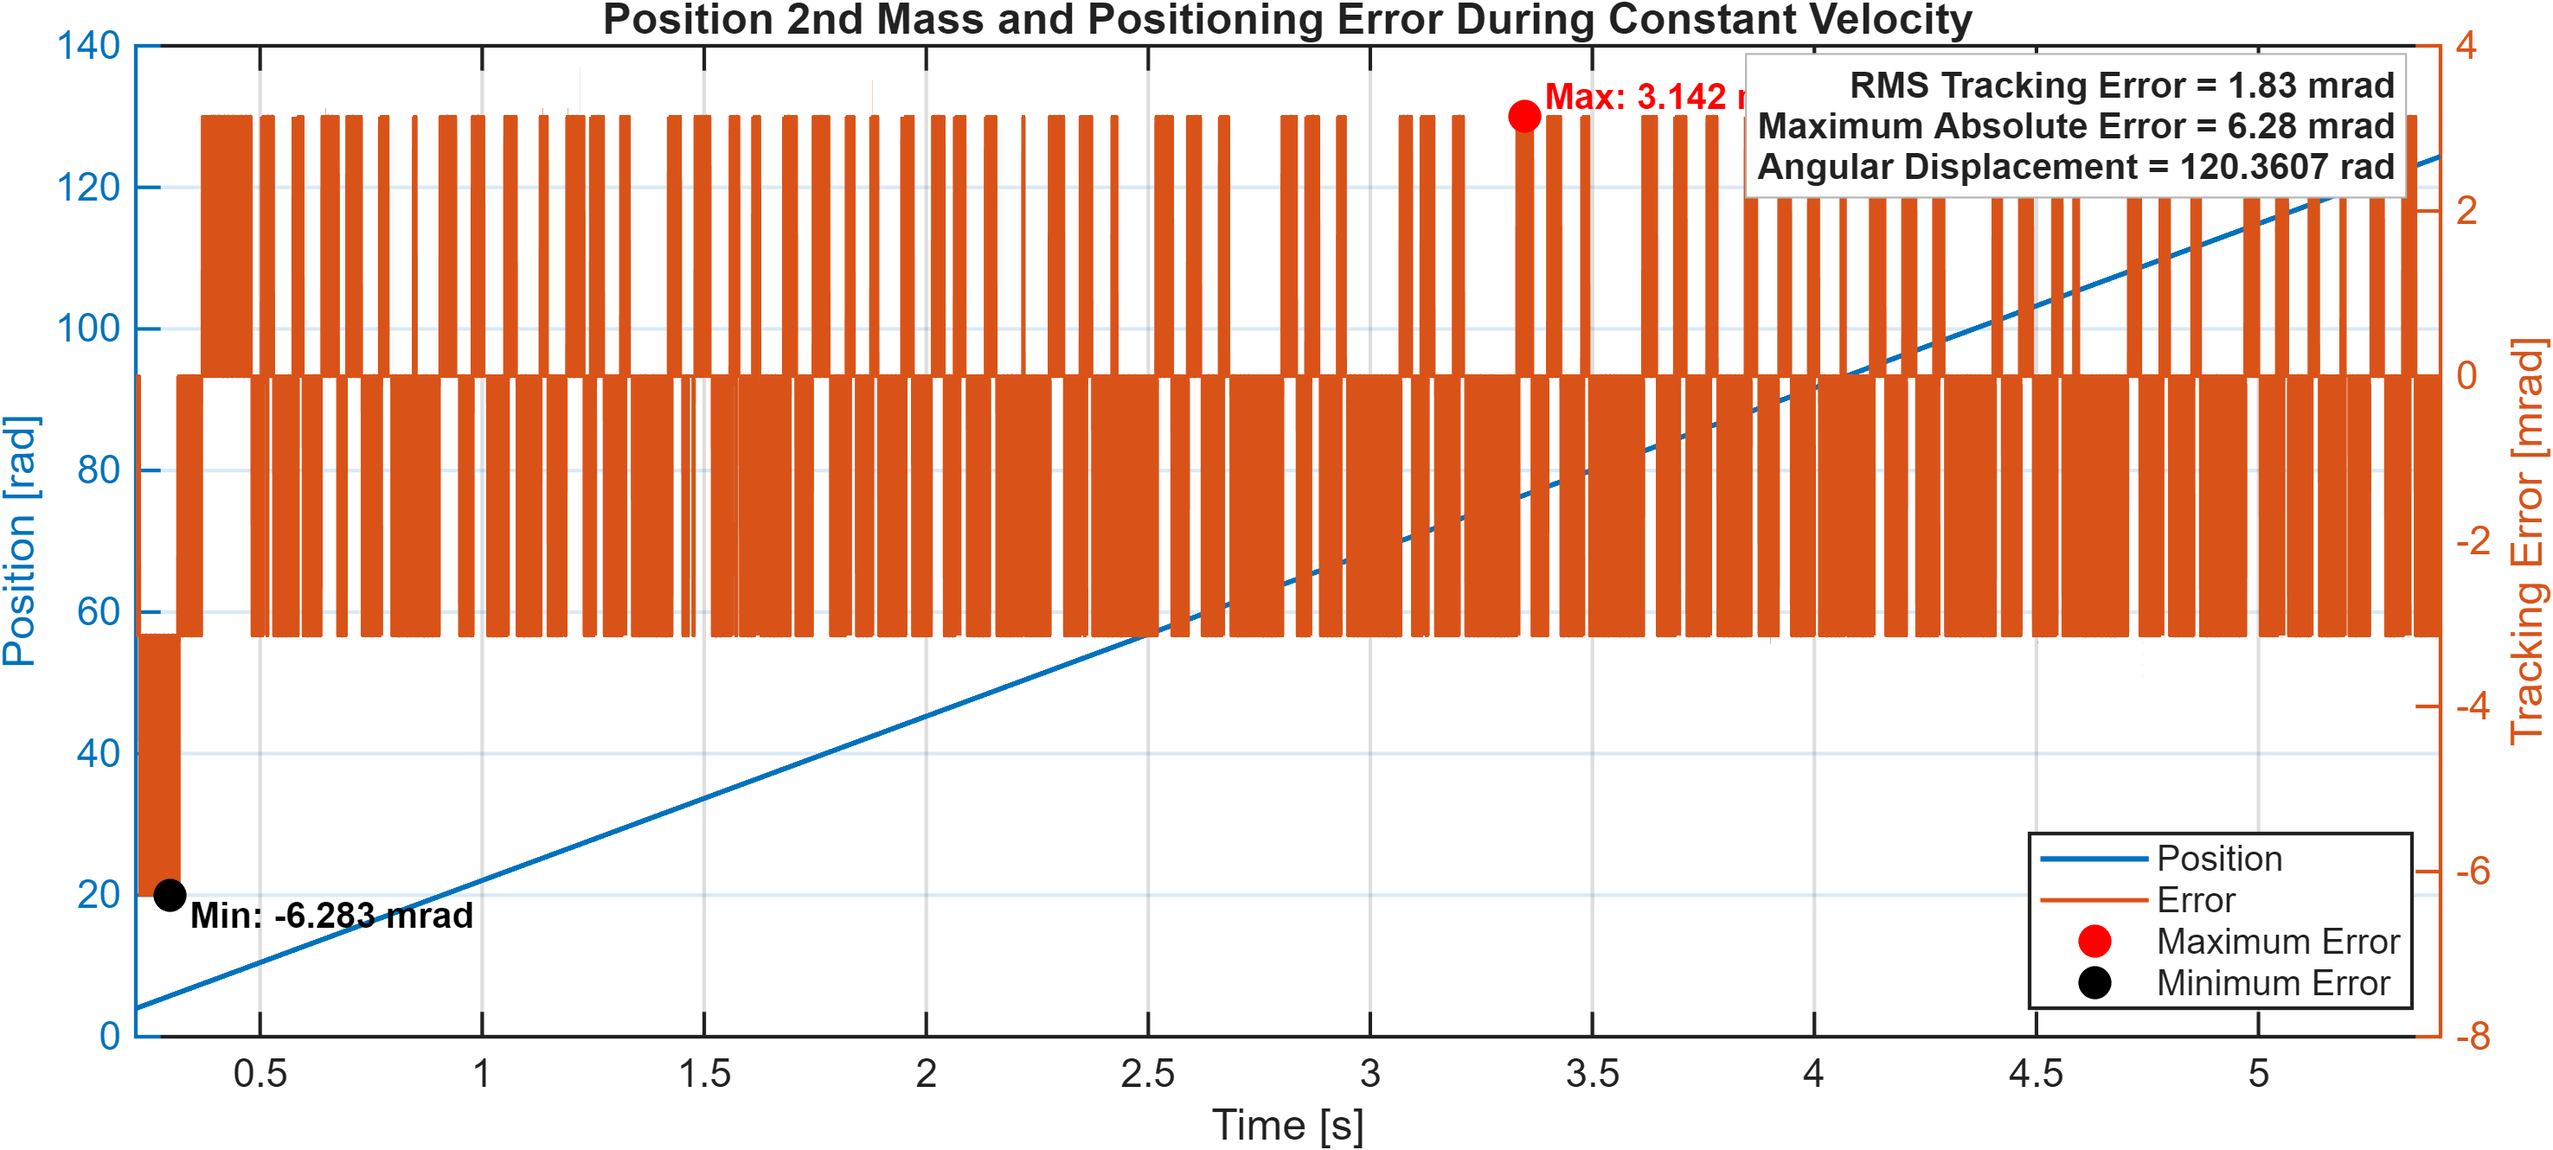
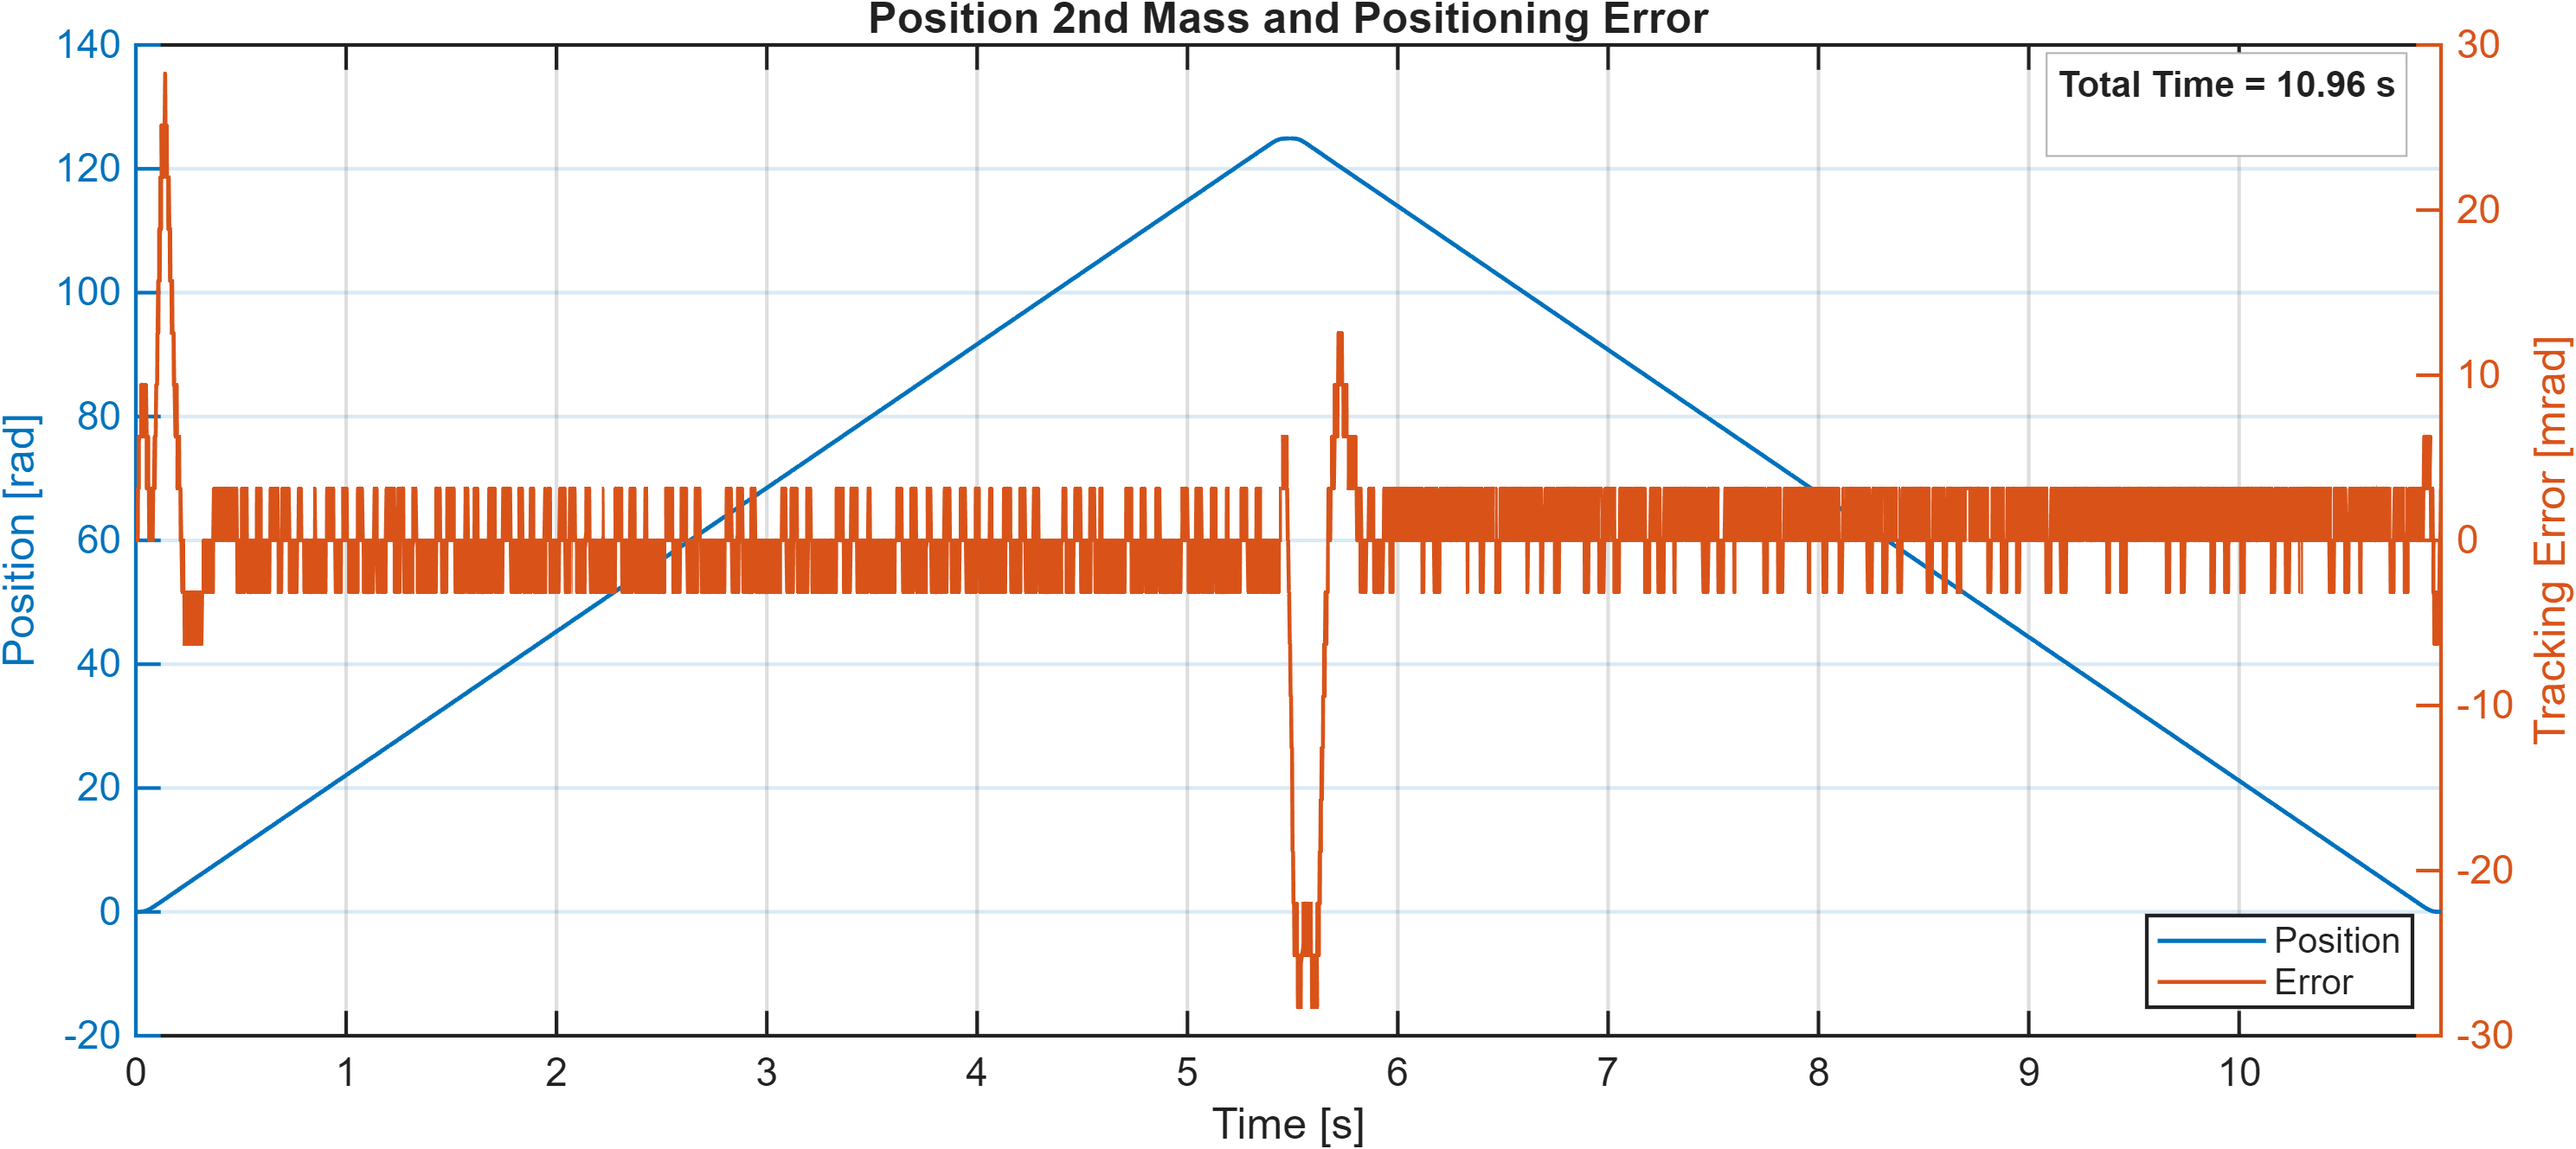
bhjacsd

diff --git a/Report Plots/report_gen_only_error.m b/Report Plots/report_gen_only_error.m
@@ -4,8 +4,8 @@ clear;
 close all;
 
 %% Load data
-y_data = load('outputFeedForwardTrajectoryNoValues.mat');
-e_data = load('errorFeedForwardTrajectoryNoValues.mat');
+y_data = load('outputEverything.mat');
+e_data = load('errorEverything.mat');
 
 % Extract signals
 t_y = y_data.output.Time(:);
@@ -71,7 +71,7 @@ xlabel('Time [s]');
 title('Position 2nd Mass and Positioning Error');
 
 legend([h1 h2], {'Position','Error'}, ...
-    'Location','best');
+    'Location','southeast');
 
 grid on;
 box on;
@@ -82,6 +82,19 @@ ax.YAxis(1).Color = '#0072BD';
 ax.YAxis(2).Color = '#D95319';
 ax.FontSize = 11;
 ax.LineWidth = 1;
+
+%% Performance annotation
+time_text = sprintf('Total Time = %.2f s\n',max(t_y));
+
+% Position textbox in northeast corner
+text(0.98, 0.98, time_text, ...
+    'Units','normalized', ...
+    'FontSize',10, ...
+    'FontWeight','bold', ...
+    'BackgroundColor','white', ...
+    'EdgeColor',[0.7 0.7 0.7], ...
+    'HorizontalAlignment','right', ...
+    'VerticalAlignment','top');
 
 %% Figure 2: Constant velocity interval
 fig2 = figure('Color','w','Position',[200 200 1100 450]);
@@ -163,10 +176,10 @@ text(0.98, 0.98, RMS_text, ...
     'VerticalAlignment','top');
 
 %% Export figures
-exportgraphics(fig1, 'FeedForwardTrajectoryNoValues.png', ...
+exportgraphics(fig1, 'Everything.png', ...
     'Resolution', 300);
 
-exportgraphics(fig2, 'FeedForwardTrajectoryNoValues_Error.png', ...
+exportgraphics(fig2, 'Everything_Error.png', ...
     'Resolution', 300);
 
 fprintf('\nBoth figures exported successfully.\n');

diff --git a/Report Plots/FFT.m b/Report Plots/FFT.m
@@ -1,0 +1,45 @@
+clc;
+clear;
+
+%% Load data
+y_data = load('output4HzSineWave.mat');
+e_data = load('error4HzSineWave.mat');
+
+% Extract signals
+t_y = y_data.output.Time(:);
+position = y_data.output.Data(:);
+
+t_e = e_data.error.Time(:);
+error = e_data.error.Data(:);
+
+L = length(error);
+Fs = 4000;
+Y = fft(error);
+P2 = abs(Y/L);
+P1 = P2(1:L/2+1);
+P1(2:end-1) = 2*P1(2:end-1);
+f = Fs*(0:(L/2))/L;
+
+% Identify the dominant frequency component
+[~, dominantIndex] = max(P1(2:end));
+dominantIndex = dominantIndex + 1;
+dominantFrequency = f(dominantIndex);
+
+figure
+semilogx(f,P1,"LineWidth",3)
+title("Single-Sided Amplitude Spectrum of X(t)")
+xlabel("f (Hz)")
+ylabel("Amplitude")
+grid on
+
+peak_text = sprintf('Dominant Frequency = %.2f [Hz]\n', dominantFrequency);
+
+% Position textbox in northeast corner
+text(0.98, 0.98, peak_text, ...
+    'Units','normalized', ...
+    'FontSize',10, ...
+    'FontWeight','bold', ...
+    'BackgroundColor','white', ...
+    'EdgeColor',[0.7 0.7 0.7], ...
+    'HorizontalAlignment','right', ...
+    'VerticalAlignment','top');
